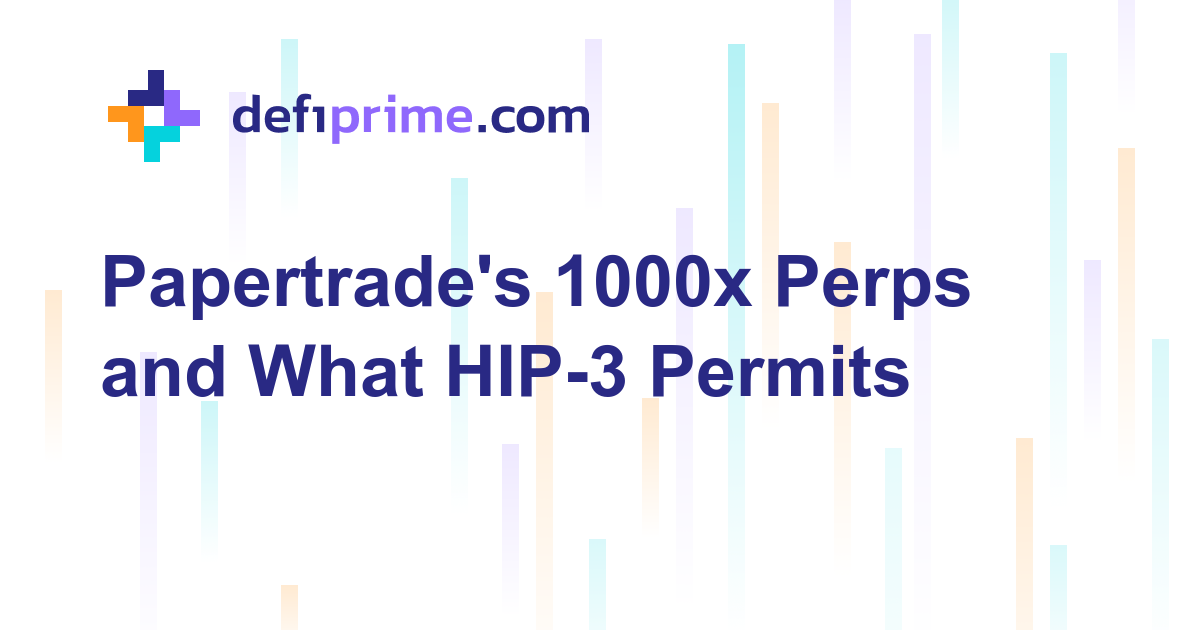
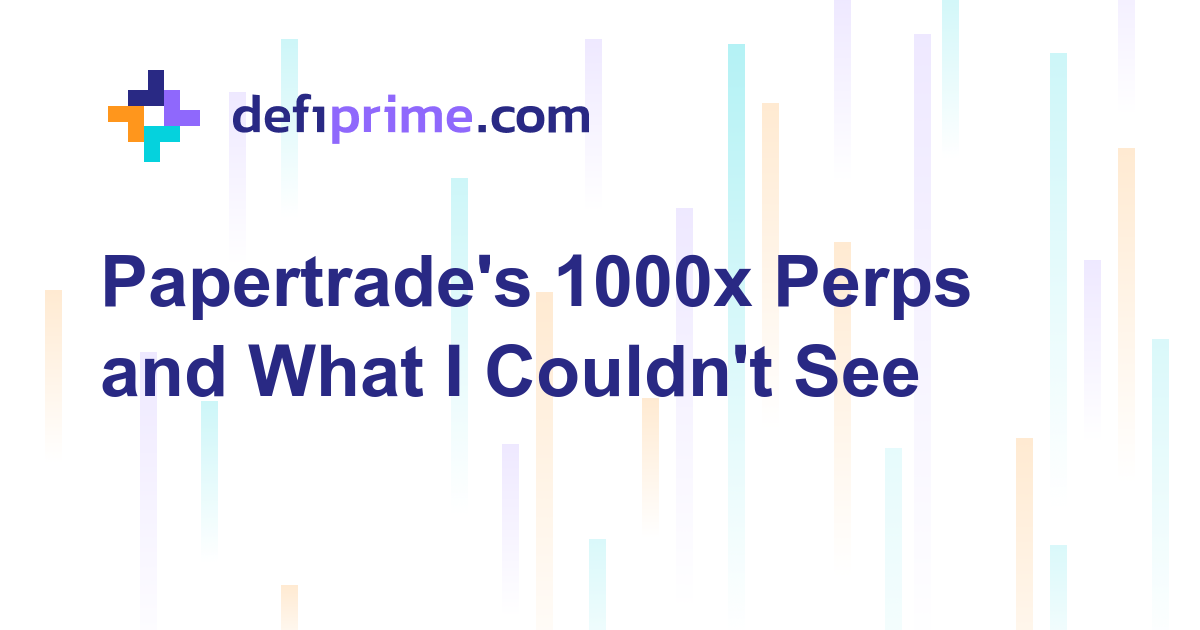
Revise Papertrade article: surface verification gaps, fix fee math, add steel-man
Front-loads the access-error caveat (papertrade.xyz, X, and
docs.papertrade.xyz all returned 403 to my tooling) so readers
see what's inferred vs. verified before the analysis.

Hyperliquid-side fixes: anchors fees in the published 1.5/4.5 bps
base rate (HIP-3 is 2x = 3/9 bps, not the 6/18 bps a third-party
explainer had reported) and sizes the 500k HYPE deployer stake
at ~$20M at current HYPE prices. Reframes the 1000x margin math
as a thought experiment about linear extrapolation of the
documented 3-40x formula, not a verified description of papertrade's
configuration.

Reframes the two reference points: trade.xyz no longer called
"the responsible template" (tokenized equity perps have their own
oracle risk); JELLY described as a coordinated manipulation
rather than generic thin-liquidity blowup, with the analogy to
papertrade narrowed accordingly. Adds a steel-man section for
1000x-as-gambling-product. Cuts the unsupported "best execution
surface in DeFi" closing and the policy-speculation line about
scaling stake to leverage.

Title updated to reflect the more honest framing.

Changed region(s): [[0.37, 0.5429, 0.7708, 0.6333]]

diff --git a/collections/_posts/2026-05-14-papertrade-hyperliquid-1000x-perps.md b/collections/_posts/2026-05-14-papertrade-hyperliquid-1000x-perps.md
@@ -1,37 +1,39 @@
 ---
 git-date:
 layout: [blog]
-title: "Papertrade's 1000x Perps on Hyperliquid: What HIP-3 Lets You Build, and What 1000x Leverage Actually Means"
+title: "Papertrade's 1000x Perps on Hyperliquid: What HIP-3 Permits, and What I Couldn't See"
 permalink: papertrade-hyperliquid-1000x-perps
-h1title: "Papertrade's 1000x Perps and What HIP-3 Actually Permits"
-pagetitle: "Papertrade's 1000x Perps on Hyperliquid: What HIP-3 Lets You Build, and What 1000x Leverage Actually Means"
-metadescription: "Papertrade.xyz pitches 1000x leverage synthetic perpetuals on Hyperliquid. Here's how HIP-3 actually works, what's the deployer's responsibility, and the margin math that decides who survives."
+h1title: "Papertrade's 1000x Perps: HIP-3 Mechanics and What's Still Hidden"
+pagetitle: "Papertrade's 1000x Perps on Hyperliquid: What HIP-3 Permits, and What I Couldn't See"
+metadescription: "Papertrade.xyz pitches 1000x leverage on Hyperliquid as a HIP-3 deployer. Here's what HIP-3 actually permits, the leverage math against Hyperliquid's documented engine, and the gap between marketing claims and verifiable product specs."
 category: blog
 featured-image: /images/blog/papertrade-hyperliquid-1000x-perps-ogp.png
-intro: "Papertrade.xyz pitches 1000x leverage synthetic perpetuals on Hyperliquid. Here's how HIP-3 actually works, what's the deployer's responsibility, and the margin math that decides who survives."
+intro: "Papertrade.xyz pitches 1000x leverage on Hyperliquid as a HIP-3 deployer. Here's what HIP-3 actually permits, the leverage math against Hyperliquid's documented engine, and the gap between marketing claims and verifiable product specs."
 author: sawinyh
-tags: ["Analysis", "Yield"]
+tags: ["Analysis"]
 ---
 
-Hyperliquid spent 2024 and most of 2025 being the cleanest answer to the question "can a perpetual futures venue run fully on chain and still match a centralized exchange on execution?" The answer was yes, with a custom L1, HyperBFT consensus, sub-second finality, and a CLOB that handled tens of billions of dollars in daily volume during peak weeks. By April 2026 the platform was clearing roughly $40 billion in weekly perp volume, holding around $9.5 billion of open interest, and capturing the majority of decentralized perp activity on most days.
+Hyperliquid spent 2024 and most of 2025 answering one question well: can a perpetual futures venue run fully on chain and still match a centralized exchange on execution? The answer was yes, with a custom L1, HyperBFT consensus, sub-second finality, and a CLOB that handled tens of billions of dollars in daily volume during peak weeks. By April 2026 the platform was clearing roughly $40 billion in weekly perp volume, holding around $9.5 billion of open interest, and capturing the majority of decentralized perp activity on most days.
 
-What changed in October 2025 is that anyone with 500,000 HYPE staked could deploy their own perpetual futures market on top of that infrastructure. HIP-3, the builder-deployed perps standard, went live on mainnet on October 13, 2025. By April 2026 those builder-deployed markets accounted for over 35% of all Hyperliquid trading volume and topped $2 billion in open interest at peak. The dominant deployer, trade.xyz, ran tokenized equities and commodities and accounted for roughly 90% of HIP-3 open interest at the time those figures were reported.
+What changed in October 2025 is that anyone with 500,000 HYPE staked could deploy their own perpetual futures market on top of that infrastructure. HIP-3, the builder-deployed perps standard, went live on mainnet on October 13, 2025. By April 2026 those builder-deployed markets accounted for over 35% of all Hyperliquid trading volume and peaked near $2.3 billion in open interest. The dominant deployer, trade.xyz, ran tokenized equities and commodities and accounted for roughly 90% of HIP-3 open interest at the time those figures were reported.
 
-Papertrade.xyz is the part of the HIP-3 surface that the dominant deployer is not. It is a builder-deployed perp market that puts a 1000x leverage offer on the front page and pitches itself as "the first fair-launched fully onchain perpetual exchange built on Hyperliquid." The marketing copy emphasizes "1000x leverage, 0 market impact, 100% user owned, fully onchain." The product is live; the team is not publicly named at the time of writing; a mobile app and full documentation are listed as coming soon.
+Papertrade.xyz is one of the smaller HIP-3 deployers. It puts a 1000x leverage offer on the front page and pitches itself as "the first fair-launched fully onchain perpetual exchange built on Hyperliquid." The marketing copy emphasizes "1000x leverage, 0 market impact, 100% user owned, fully onchain." A mobile app and full documentation are listed as coming soon. The team is not publicly named at the time of writing.
 
-This piece is not a review of papertrade.xyz as an investment opportunity. The goal is to do three things accurately: explain what HIP-3 actually lets a deployer like papertrade do (and not do), work through the margin math on 1000x leverage as it lands inside Hyperliquid's liquidation engine, and place the product in the context of the other things HIP-3 has so far produced. Specific numbers are point-in-time as of mid-May 2026 and will move.
+### What I could and couldn't see
+
+This piece deserves an honest caveat up front. The papertrade.xyz marketing site, its X account, and the docs.papertrade.xyz subdomain all returned access errors or weren't indexed when I tried to load them directly for this article, so the marketing copy above is reconstructed from search-engine summaries rather than a first-hand read of the product. I have no on-chain confirmation of papertrade's HIP-3 deployer wallet, no asset list, no oracle list, no audit reports, no team identity, no documentation, and no per-deployer volume or TVL figures. What I can do is reason from public HIP-3 mechanics about what a deployer in this position can and cannot configure, and run the leverage math against Hyperliquid's documented liquidation engine. Those two things, together with the JELLYJELLY precedent from March 2025 and the trade.xyz trajectory since October, are what this piece is actually about. Take everything specific to papertrade as commentary on the marketing pitch and the structural envelope, not as analysis of a fully-disclosed product. If papertrade ships public documentation, much of this becomes verifiable rather than inferred.
 
 ## What Papertrade Is, Mechanically
 
 Papertrade.xyz is a HIP-3 deployer. That means three concrete things.
 
-First, somewhere on the books a wallet has 500,000 HYPE staked against the deployment, and that stake is subject to slashing by validator vote if the markets it runs are deemed to have caused "irregular inputs that cause invalid state transitions or prolonged downtime" (up to 100%), or lesser performance issues (up to 50% or 20% depending on severity). At HYPE's recent prices that stake is a non-trivial amount of capital pledged against the deployer behaving. It also takes a 7-day unstaking queue to remove, during which it remains slashable.
+First, somewhere on the books a wallet has 500,000 HYPE staked against the deployment, and that stake is subject to slashing by validator vote if the markets it runs are deemed to have caused "irregular inputs that cause invalid state transitions or prolonged downtime" (up to 100%), or lesser performance issues (up to 50% or 20% depending on severity). HYPE has traded around $39 in mid-May 2026, putting the deployer stake at roughly $20 million in current terms. It also takes a 7-day unstaking queue to remove, during which the stake remains slashable. That is the cost of misconduct, and it is meaningful — though not necessarily large relative to the bad-debt envelope an aggressive market can route into Hyperliquid's solvency stack.
 
 Second, papertrade chose its own oracle, its own leverage caps, its own collateral asset, its own listed contracts, and (within HIP-3's permitted range) its own fees. What it did not choose is the matching engine, the orderbook infrastructure, the margin engine, or the solvency guarantees underneath. Those belong to Hyperliquid's validator set and are unified with the rest of HyperCore. HIP-3 deployers operate "essentially their own perpetual futures exchange built on top of HyperCore," in the framing the docs use: their own storefront, the same underlying plumbing.
 
 Third, papertrade gets a fixed 50% of fees from its markets. Users pay 2x the base rate compared to validator-operated markets, the protocol takes the other half, and the deployer can also configure additional fee shares between 0 and 300% on top (0 to 100% if running in "growth mode" where taker fees can be cut roughly ninety percent). That is the economic engine for a deployer: the more volume the storefront generates, the more fee flow accrues, against a fixed staking cost.
 
-What papertrade is selling on top of that infrastructure is leverage. Specifically, headline leverage that goes higher than anything Hyperliquid offers natively.
+What papertrade is selling on top of that infrastructure is leverage. Specifically, headline leverage that goes well above the 40x cap Hyperliquid imposes on its own validator-operated perps for crypto majors.
 
 ## What "Synthetic Perpetuals" Means Here
 
@@ -41,31 +43,33 @@ For papertrade specifically, the public marketing does not list which assets are
 
 Until the asset list is public it is fair to treat "synthetic perpetuals" as a positioning choice that makes the product feel modern, rather than as a description of a specific mechanism. The relevant fact for risk is which oracles feed which contracts, and that is information the live site does not yet expose.
 
-## The 1000x Leverage Math
+## The 1000x Leverage Math (With Caveats)
 
-Hyperliquid's documented liquidation engine works the same way for HIP-3 markets as for validator-operated markets, because the margin engine is unified. The maintenance margin is half the initial margin at max leverage. At 40x leverage on BTC perps, the maintenance margin is 1.25%. At 3x leverage on a long-tail name, it's 16.7%. These are the thresholds at which the account is sent into liquidation via the orderbook. If equity falls below two-thirds of maintenance margin without a successful book fill, the liquidator vault (a component strategy of HLP, Hyperliquid's community liquidity pool) absorbs the position as a backstop.
+Two big caveats before any number: Hyperliquid's documented margin formula is given with examples that cap at 40x for validator-operated markets, and HIP-3 deployers can configure their own leverage caps and (in some forms) their own risk parameters. So extrapolating the formula linearly to 1000x is a thought experiment about what the documented engine would imply, not a verified description of how papertrade actually has its markets parameterized. With that flagged:
 
-If you apply the same formula to 1000x, and HIP-3 deployers do inherit the unified margin engine even though the documented examples cap at 40x, the maintenance margin works out to roughly 0.05%. That is the live constraint: at 1000x leverage, an adverse move of about five basis points moves the account into liquidation, and a move of about three basis points (two-thirds of that) sends the position to the backstop liquidator. Five basis points on BTC is the kind of price wobble that lands inside a single minute of normal market activity. Three basis points is closer to bid-ask noise on the book at any given moment. Whether papertrade configures its specific markets to use the documented formula or some custom version is not visible without the docs that the project has labeled as coming soon.
+Hyperliquid documents maintenance margin as half the initial margin at max leverage. At 40x leverage on BTC perps, the maintenance margin is 1.25%. At 3x leverage on a long-tail name, it's 16.7%. These are the thresholds at which an account is sent into liquidation via the orderbook. If equity falls below two-thirds of maintenance margin without a successful book fill, the liquidator vault (a component strategy of HLP, Hyperliquid's community liquidity pool) absorbs the position as a backstop. If that same formula extended linearly to 1000x, maintenance margin would be roughly 0.05% of notional and a five-basis-point adverse move would liquidate. In practice, no responsible venue would let the linear extrapolation hold, so the live papertrade configuration almost certainly imposes tighter constraints somewhere: position size caps, isolated margin only, stepped maintenance margin curves at extreme leverage, or different liquidation triggers. Without the docs, the linear-extrapolation number is a ceiling on how sloppy the math could get, not a description of how it actually does work.
 
-That math has two consequences worth being clear about.
+The fee math is on firmer ground but still requires care. Hyperliquid's published base perp fees are 0.015% maker / 0.045% taker at the lowest staking and volume tier. HIP-3 markets pay 2x the standard rate, which gives roughly 3 / 9 basis points of notional at base, before any "growth mode" rebates a deployer might enable. At 1000x leverage, that 9-bp taker fee equals 90% of the trader's collateral on the entry alone. A round trip — entry plus exit, both as taker — runs about 180% of collateral, so the headline fees on a maxed-out position are bigger than the collateral backing it. A 1000x trader either uses far lower effective leverage than the headline number, runs in growth mode where taker fees are slashed by roughly 90% to about 0.5 bps, or accepts that every entry-and-exit is a structurally losing trade absent a sharp directional move that opens fast and closes faster than fees and funding accrue.
 
-The first is that "0 market impact" and "0 slippage" do not survive the trip from marketing copy to execution. Hyperliquid's liquidation flow uses a mark price that combines external CEX prices with the local book state. When a 1000x position is auto-liquidated, the position size is the leveraged position size, not the collateral. A trader who posts 100 USDC at 1000x is holding a 100,000 USDC notional contract. Liquidating that notional through Hyperliquid's actual order book has the same slippage profile any 100,000 USDC market order would have on that pair. The "0 slippage" claim, where it appears, is doing one of two things: either it refers to the experience of opening a position, where Hyperliquid's CLOB is genuinely one of the deepest in DeFi, or it is marketing language not anchored to a specific execution claim. The math of forced liquidation cuts through it either way.
+The other practical wrinkle: "0 market impact" and "0 slippage" are not properties of the math at 1000x. Hyperliquid's CLOB is among the deepest in DeFi for size, but a trader posting 100 USDC at 1000x is holding 100,000 USDC of notional. When that position is auto-liquidated, the position size is the leveraged size, not the collateral. Liquidating 100,000 USDC of notional through Hyperliquid's actual order book has whatever slippage profile that pair has at that size. The "0 slippage" claim, where it appears, is doing one of two things: either it refers to the experience of opening a position (where the CLOB is in fact very deep) or it is marketing language not anchored to an execution claim.
 
-The second is that at 1000x, the trader is not really "trading." They are running a high-frequency binary lottery in which the breakeven hurdle is fees plus a few basis points of price drift, and the loss event is total. Hyperliquid's HIP-3 base fees on builder-deployed markets are 2x the standard rate, which puts them in roughly the 6 / 18 basis-points-of-notional range on maker / taker before any growth-mode adjustments. Per dollar of *collateral*, 18 bps of notional at 1000x equals 180%. The round-trip fee on a maxed-out position is bigger than the collateral backing it. In practice this means a 1000x trader either uses much lower effective leverage than the headline number, or accepts that every entry-and-exit is a structurally losing trade absent a sharp directional move that opens fast and closes faster than fee accrual. Funding rates compound the problem on either side. Most high-leverage perp products converge on a similar steady state: a small number of accounts win large amounts, the average lifetime per account is short, and the venue's economics are driven by entry-and-blow-up frequency rather than directional trading skill.
+None of this is specific to papertrade. It is the structural reality of any high-leverage perp product. What is specific to the papertrade pitch is that 1000x sits at the extreme end even within crypto, where 100x has historically been the headline number on offshore venues and 40x is what mature on-chain venues permit on majors.
 
-None of this is unique to papertrade. It is the structural reality of any high-leverage perp product. What is specific to the papertrade pitch is that 1000x sits at the extreme end even within crypto, where 100x has historically been the headline number and 40x is what mature venues actually permit on majors.
+## The Two Reference Points
 
-## Two Precedents That Matter
+The HIP-3 surface so far has two useful reference points, each with its own complications.
 
-The HIP-3 surface so far has two reference points worth comparing papertrade against.
+Trade.xyz is the largest deployer by far. It uses HIP-3 to run tokenized stock, index, and commodity perps on Hyperliquid: S&P 500 and NASDAQ futures, pre-IPO contracts (Cerebras' CBRS being one example), and tokenized gold, silver, and oil. The product targets 24/7 access to traditional markets, which is a real and underserved demand, and per recent ecosystem reporting has hit 24-hour volumes in the multi-billion-dollar range with tens of thousands of unique daily traders. Trade.xyz's leverage caps are conservative compared to what's coming next in HIP-3 — the product sells access, not extremity. Calling trade.xyz the "responsible" template would be too strong though: tokenized equity perps are oracle-dependent on TradFi venues, can experience weekend reporting gaps, and the pre-IPO contracts in particular reference assets with no real spot liquidity. They are a different risk profile, not a smaller one.
 
-Trade.xyz is the responsible deployer template. It has used HIP-3 to launch tokenized stock, index, and commodity perps on Hyperliquid, including S&P 500 and NASDAQ futures, pre-IPO contracts (Cerebras' CBRS being one example), and tokenized gold, silver, and oil. The product mix points at the most underserved corner of crypto-derivative demand: 24/7 access to traditional markets, rather than higher leverage on assets that already have leverage. The result is a deployer that, per recent ecosystem reporting, has hit 24-hour volumes in the multi-billion-dollar range with tens of thousands of unique daily traders, and accounts for the bulk of HIP-3 open interest. Trade.xyz's leverage caps are conservative by HIP-3 standards; the product sells access, not extremity. That is the version of HIP-3 the Hyperliquid documentation and pitch decks tend to emphasize.
+The other reference is the JELLYJELLY incident from March 2025. The details matter, because the analogy to a 1000x perp product is weaker than it first looks. JELLY was a coordinated attack rather than a passive blow-up: an attacker opened a roughly $4.5 million short and two ~$2.5 million longs on a thinly-traded memecoin perp, then pumped the spot price by more than 400% in an hour on outside venues. The short was then made uneconomic to liquidate through the order book and inherited by HLP. Hyperliquid's validator set voted to delist JELLY perps within minutes, settled all positions at the opening price, and the Hyper Foundation made non-flagged users whole. The defense worked, in that bad debt was contained and users were compensated, but the resolution required active validator coordination and produced months of debate about how meaningfully different a "validator delist" emergency button is from a CEX. The lesson JELLY carries forward is narrow: a deployer who lists a perp on an asset with thin, manipulable spot liquidity is creating a configuration the validator set is willing to override. That is a real constraint on what an HIP-3 deployer can list. It is not, strictly, a leverage-level lesson.
 
-The other reference point is the JELLYJELLY incident from March 2025. Several newly-created addresses opened a $4.5 million short and two ~$2.5 million long positions on a memecoin perp, then pumped the underlying spot price by more than 400% in an hour. The short position became uneconomic to liquidate through the book and was inherited by HLP. The validator set convened, voted to delist JELLY perps, and settled all positions at the opening price. The Hyper Foundation made non-flagged users whole. Technically the defense worked: bad debt was contained, HLP losses were absorbed by the foundation, and users were compensated. But the resolution required active validator coordination, and it produced months of debate about whether a venue with a "validator delist" emergency button is meaningfully different from a CEX. The lesson HIP-3 deployers carry forward from JELLYJELLY is that thin underlying liquidity plus high leverage is exactly the configuration that forces governance interventions, and the validator set has shown it is willing to use them.
+For a more direct comparison on the 1000x dimension, the cleanest reference is [opt.fun](https://www.dlnews.com/articles/markets/hyperliquid-protocol-cranks-up-the-risk-with-1000x-leverage/), a separate Hyperliquid-ecosystem protocol that announced 1000x leverage options trading with one-minute expiry on Bitcoin and Pump.fun. Opt.fun's design has an important property the perp version does not: the user's loss is bounded by the option premium paid, because it is an option. A 1000x perp has no such bounding. The position can in principle go further underwater than the collateral if the liquidation cascade slips, with the residual landing on HLP and ultimately on Hyperliquid's protocol-level backstops.
 
-Papertrade is structurally closer to the JELLY configuration than to the trade.xyz configuration: extreme leverage on what is likely to be a mix of crypto-native assets, marketed for the kind of position sizes where the backstop liquidator and HLP would be the counterparties of last resort. Calling that out is descriptive, not a forecast that anything blows up. It locates the product on the HIP-3 design space.
+## The Steel-Man for 1000x
 
-There is also one outside reference: [opt.fun](https://www.dlnews.com/articles/markets/hyperliquid-protocol-cranks-up-the-risk-with-1000x-leverage/), a separate Hyperliquid-ecosystem protocol that announced 1000x leverage options trading with one-minute expiry on Bitcoin and Pump.fun. Opt.fun's framing is closer to honest: an options product, with explicit one-minute time decay, where the premium is the entire risk and the leverage is on the premium. That product is structured so that the user's loss is bounded by what they paid. A 1000x perp does not have that bounding. The position can in principle go further underwater than the collateral if the liquidation cascade slips, with the residual landing on HLP and ultimately on Hyperliquid's protocol-level backstops.
+Before treating 1000x as a failure mode, it is worth taking the design choice seriously on its own terms. A product called *papertrade* offering 1000x leverage could reasonably be positioned as a gambling-adjacent or entertainment product, where users post small dollar amounts ($5-50), accept the lottery framing explicitly, and the leverage is the point rather than a serious risk-management tool. Read that way, the fee math doesn't sting as much (a 90%-of-collateral entry fee on a $10 ticket is $9, comparable to a casino vig), the "0 slippage" claim makes more sense as marketing for tiny position sizes, and the comparison to opt.fun's options product becomes the right one. If papertrade is shipped and used at small-ticket size by a self-selecting audience, the blow-up problem stays inside individual user balances and the backstop layers are not stressed.
+
+That framing is conjecture in the absence of asset lists, position caps, or any clear product positioning beyond a 1000x number on a marketing page. It is the version of the product where the structural critique above doesn't quite apply. The version where it does apply is the version with no position caps, listed against deep crypto-major liquidity, with serious-sounding marketing language. Which version is live is something the docs would settle.
 
 ## What HIP-3 Does Not Outsource
 
@@ -89,44 +93,35 @@ This is the structurally important point about builder-deployed perps and high l
 
 ## What Is Verifiable, and What Is Not
 
-Specific claims that the public surface area of papertrade lets a third party verify right now:
+A clean separation, since this article rests on what could not be checked as much as on what could:
 
-- It positions itself as a HIP-3 deployer (consistent with the marketing language about being "fully onchain" and "on Hyperliquid"). On-chain confirmation that the wallet behind papertrade has the required 500,000 HYPE staked is the kind of thing the project will be expected to surface in the documentation it has marked as coming soon.
-- The 1000x leverage number is in the marketing copy. Whether all listed assets get that cap, or just some, is not visible without docs.
-- The "0 market impact" claim is doing marketing-language work; the underlying execution surface is Hyperliquid's CLOB, which is genuinely deep but is not literally zero-impact for any position size that matters.
-- The "first fair-launched fully onchain perp exchange on Hyperliquid" claim is unfalsifiable in practice; HIP-3 deployers have not produced a shared definition of "fair launch."
+**From the documented Hyperliquid side, verifiable:** the 500,000 HYPE staking requirement, the 7-day slashable unstaking queue, the 2x HIP-3 fee multiplier, the 50% deployer fee share, Hyperliquid's published base perp fees of 0.015% / 0.045% maker / taker, the documented "half initial margin" maintenance formula at 3-40x, the backstop liquidator and HLP flow, and the JELLY validator-delist precedent.
 
-Claims that cannot currently be verified from public sources, as of mid-May 2026:
+**From the papertrade side, asserted by marketing but not independently verified:** the 1000x leverage cap, the "0 slippage" claim, the "fair launch" framing, and the claim of being a HIP-3 deployer in particular.
 
-- The team. No publicly named founders surface in search.
-- Audits. No audit reports surface in search.
-- Live TVL, deposits, and trading volume specific to papertrade's markets. Hyperliquid surfaces HIP-3 OI in aggregate; per-deployer breakdowns require either trade.xyz-style PR disclosure or direct chain analysis.
-- The asset list and the oracles backing each contract.
-- Whether a fundraise occurred. The closest things to papertrade-named funding events in search are unrelated companies (paper.xyz, the NFT payments processor, and Trade[XYZ], the HIP-3 tokenized-stocks deployer).
+**Not currently public from any source I could reach:** the team identity, audit reports, asset list, oracle list, the actual maintenance margin formula papertrade uses, position size caps if any, growth-mode fee configuration, per-deployer TVL or trading volume, and the deployer wallet address (which would let on-chain stake verification happen). The papertrade docs subdomain returned 403 to my tooling; the marketing site says docs are coming soon.
 
-The reasonable read is that papertrade is a small, recently-launched HIP-3 deployer running on top of Hyperliquid's plumbing, leaning into extreme leverage as its differentiation. Whether it accrues a real user base or stays a footnote inside the HIP-3 expansion will be visible in HLP's exposure data and in HIP-3 volume breakdowns over the coming months.
+The reasonable read is that papertrade is a small, recently-launched HIP-3 deployer leaning into extreme leverage as its differentiation. The structural critique in this piece applies to a particular version of that product. The docs would settle which version is live.
 
 ## The Broader HIP-3 Question
 
-The interesting story is not really papertrade itself. It is what the existence of papertrade tells us about HIP-3.
+The more interesting question sits one layer above papertrade itself. HIP-3 was framed by its supporters as a way to bring 24/7 traditional-asset trading, exotic synthetics, prediction markets (under HIP-4), and bespoke crypto contracts onto a shared, high-performance settlement layer. The trade.xyz arc has largely delivered on that framing. Tokenized commodities and equities became a category, HIP-3 open interest peaked above $2 billion, and the deployer fee model has produced economically meaningful businesses on top of Hyperliquid.
 
-HIP-3 was pitched and largely received as "the iPhone moment for permissionless perp creation," a way to bring 24/7 traditional-asset trading, exotic synthetics, prediction markets (under HIP-4), and bespoke crypto contracts onto a shared, high-performance settlement layer. The trade.xyz arc has validated that pitch. Tokenized commodities and equities have become a category, HIP-3 open interest now sits in the $2 billion range at peak, and the deployer fee model has produced economically meaningful businesses on top of Hyperliquid.
+The same surface that lets a builder list a Cerebras pre-IPO perp also lets a builder ship a 1000x crypto-perp. The protocol's defenses against the second case are staking economics (~$20M cost of misconduct at current HYPE prices), validator slashing for state corruption, validator delisting for manipulation precedent, and the structural reality that high-leverage products often self-limit through user blow-up rates. Those defenses do not prevent the product from being deployed. They constrain how much damage it can cause before the rest of the stack intervenes.
 
-What papertrade demonstrates is that the same surface that lets a builder list a Cerebras pre-IPO perp also lets a builder ship a 1000x crypto-perp. The protocol's defense against that is partially staking economics (cost of misconduct), partially validator slashing (cost of state corruption), and partially the structural reality that high-leverage perps tend to attract a self-selecting user base whose blowup rate keeps the product's volume from compounding too far. None of those defenses prevent the product from existing. They constrain how much damage it can cause before validators step in.
+What's worth watching, in HLP's exposure data and in any future HIP-3 governance discussion, is whether the deployer-stake-to-bad-debt ratio is meaningfully calibrated for the leverage envelope deployers are now offering. The 500,000 HYPE requirement was set when HIP-3 launched and HIP-3 markets were a new category. It has not, to my knowledge, been re-examined in the context of 1000x products. Whether that conversation needs to happen depends on how much liquidation flow products like papertrade actually generate, which is the empirical question the next six months will answer.
 
-The thing to watch is whether HLP's exposure profile changes as more deployers test how far the leverage envelope can be pushed. HLP is the actual backstop for everything HIP-3 routes into it. The community-owned vault that absorbs Hyperliquid's bad debt also absorbs the bad debt that any HIP-3 deployer creates. If 1000x products like papertrade route enough liquidation flow into the vault, the next conversation Hyperliquid has to have is whether the deployer's slashable stake should be sized to the leverage offered, not just to the cost of running an irregular market. That is a governance question rather than a contract question, and the precedent for that conversation already exists. The validator set used it on JELLY.
-
-For practitioners, the immediate takeaway is narrower. Hyperliquid's CLOB is still the best execution surface in DeFi. HIP-3 is a real category and trade.xyz-style deployers are doing real work. And the same primitives that let trade.xyz run a 24/7 S&P 500 perp let papertrade run a 1000x leverage one. The product label tells you which side of that primitive you are standing on.
+For practitioners, the takeaway is narrower. Hyperliquid's CLOB remains a deep on-chain execution surface; HIP-3 is a real category; trade.xyz-class deployers are doing real work; and the same primitive that runs a 24/7 S&P 500 perp also runs a 1000x leverage product. The product label tells you which side of the primitive you are standing on. The product docs, when they ship, will tell you whether the structural critique above applies.
 
 ## Quick Reference
 
 - HIP-3 went live on Hyperliquid mainnet on October 13, 2025. ([Hyperliquid Docs](https://hyperliquid.gitbook.io/hyperliquid-docs/hyperliquid-improvement-proposals-hips/hip-3-builder-deployed-perpetuals))
-- Builder-deployed perps grew to roughly 35% of Hyperliquid volume and topped $2 billion in open interest at peak by April 2026, with trade.xyz responsible for the large majority of that OI. ([TheBlock](https://www.theblock.co/post/393810/hyperliquid-hip-3-markets-1-43-billion-open-interest-24-7-trading-tokenized-equities-commodities), [CoinDesk](https://www.coindesk.com/markets/2026/03/10/hyperliquid-s-permissionless-market-smashes-usd1-2-billion-in-open-positions-as-oil-and-equity-futures-boom))
+- Builder-deployed perps grew to roughly 35% of Hyperliquid volume and peaked near $2.3 billion in open interest by April 2026, with trade.xyz responsible for the large majority of that OI. ([TheBlock](https://www.theblock.co/post/393810/hyperliquid-hip-3-markets-1-43-billion-open-interest-24-7-trading-tokenized-equities-commodities), [CoinDesk](https://www.coindesk.com/markets/2026/03/10/hyperliquid-s-permissionless-market-smashes-usd1-2-billion-in-open-positions-as-oil-and-equity-futures-boom))
 - Deployer staking requirement is 500,000 HYPE; unstaking takes 7 days during which stake remains slashable; deployers receive a fixed 50% fee share; user-side fees are 2x validator-operated markets at base rates. ([Hyperliquid Docs](https://hyperliquid.gitbook.io/hyperliquid-docs/hyperliquid-improvement-proposals-hips/hip-3-builder-deployed-perpetuals))
 - Hyperliquid maintenance margin is half the initial margin at max leverage; backstop liquidation triggers at two-thirds of that. ([Hyperliquid Docs — Liquidations](https://hyperliquid.gitbook.io/hyperliquid-docs/trading/liquidations))
 - The JELLYJELLY incident (March 26, 2025) is the working precedent for what happens when thin-liquidity leverage meets the backstop liquidator. ([CoinDesk](https://www.coindesk.com/markets/2025/03/26/hyperliquid-delists-jellyjelly-after-vault-squeezed-in-usd13m-tussle), [Halborn post-mortem](https://www.halborn.com/blog/post/explained-the-hyperliquid-hack-march-2025))
 - A separate Hyperliquid-ecosystem protocol, opt.fun, has marketed 1000x leverage on options (not perps) with 1-minute expiry on BTC and PUMP. ([DL News](https://www.dlnews.com/articles/markets/hyperliquid-protocol-cranks-up-the-risk-with-1000x-leverage/))
 
-This piece is point-in-time as of mid-May 2026. HIP-3 is moving quickly; papertrade.xyz has not yet shipped public documentation; specific volume and TVL figures will shift. Treat the leverage math as the load-bearing claim. Treat the per-deployer traction figures as snapshots.
+This piece is point-in-time as of mid-May 2026. HIP-3 is moving quickly; papertrade.xyz has not yet shipped accessible public documentation; specific volume and TVL figures will shift. Treat the Hyperliquid-side mechanics (staking, fees, liquidation flow) as verified from the docs and the papertrade-side specifics as inference from marketing copy and structural envelope, not as a description of a fully disclosed product.
 
-For related defiprime coverage: [Hyperliquid vs. Aster](/hyperliquid-vs-aster), the deeper [Hyperliquid Chain ecosystem](/hyperliquid-chain-deep-dive), and the asset-primitive gap analysis from [on-chain forex](/onchain-forex-asset-primitive-gap) and [on-chain interest rate swaps](/onchain-interest-rate-swaps-yield-stripping). The product page for [Hyperliquid](/product/hyperliquid) sits in the [perps](/perps) collection.
+For related defiprime coverage: [Hyperliquid vs. Aster](/hyperliquid-vs-aster) and the [Hyperliquid Chain ecosystem deep dive](/hyperliquid-chain-deep-dive). The product page for [Hyperliquid](/product/hyperliquid) sits in the [perps](/perps) collection.